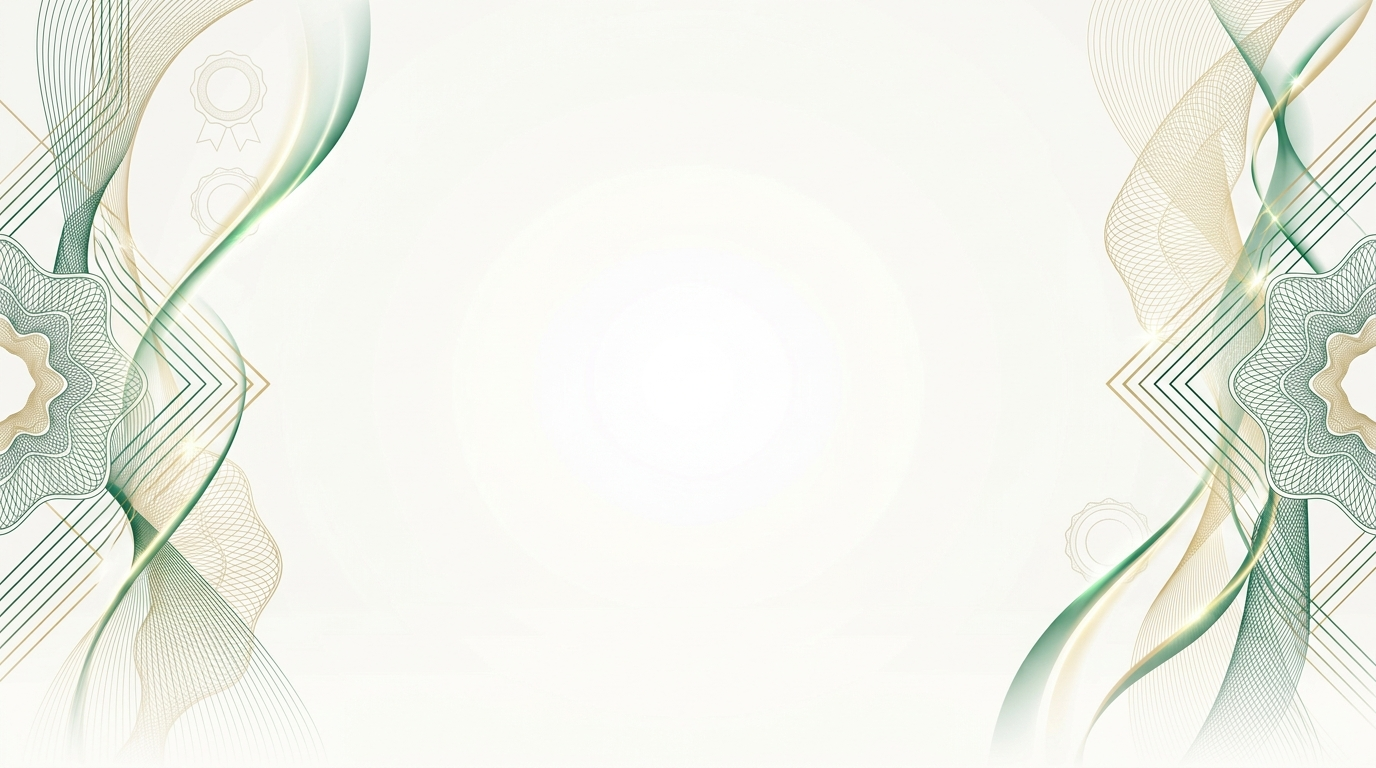
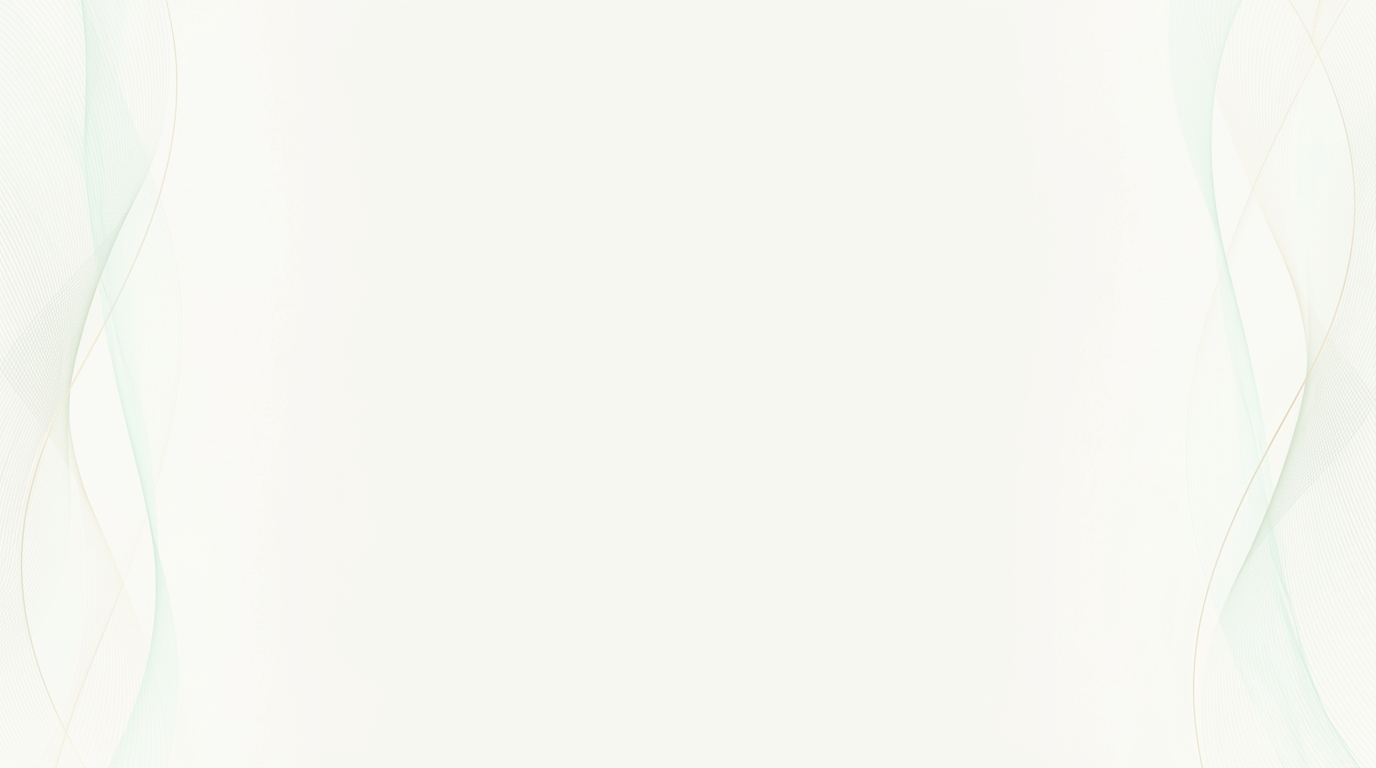
feat: add HomePage component and landing background assets

diff --git a/client/src/pages/HomePage.jsx b/client/src/pages/HomePage.jsx
@@ -596,70 +596,80 @@ if (result.isVerified) {
           </div>
         </div>
       </section>
-      </div>
 
-      {/* ── FINAL CTA BANNER ── */}
-      <section className="py-16 sm:py-24 px-4 sm:px-6 bg-gradient-to-br from-[#0E2C24] via-[#091E18] to-[#04120E] text-white text-center relative overflow-hidden">
-        <div className="absolute inset-0 opacity-15 bg-[radial-gradient(#C6A24E_1px,transparent_1px)] [background-size:16px_16px] pointer-events-none" />
-        <div className="container mx-auto max-w-3xl relative z-10 space-y-5">
-          <span className="landing-glow-badge text-[#E4C977] border-[#C6A24E]/40 bg-[#C6A24E]/15">
-            <Lock size={13} className="text-[var(--color-foil-gold)]" />
-            <span>{t('home.ctaBadge')}</span>
-          </span>
-          <h2 className="text-2xl sm:text-4xl font-extrabold text-white tracking-tight">
-            {t('home.ctaTitle')}
-          </h2>
-          <p className="text-sm sm:text-base text-[#F4EEDC]/85 max-w-xl mx-auto leading-relaxed">
-            {t('home.ctaSub')}
-          </p>
-          <div className="pt-3">
-            <button
-              type="button"
-              onClick={handleStartVerify}
-              className="btn-primary px-8 py-3.5 text-base font-bold shadow-2xl inline-flex items-center gap-2 transform hover:-translate-y-0.5 cursor-pointer bg-[#C6A24E] text-[#091A16] hover:bg-[#E4C977]"
-            >
-              <ShieldCheck size={20} />
-              <span>{t('home.ctaBtn')}</span>
-            </button>
-          </div>
-        </div>
-      </section>
+      {/* ── FINAL CTA BANNER (SAME BACKGROUND IMAGE) ── */}
+      <section className="py-16 sm:py-24 px-4 sm:px-6 relative overflow-hidden">
+          <div className="container mx-auto max-w-3xl relative z-10 text-center">
+            <div className="landing-glass-card p-8 sm:p-12 shadow-xl border border-[rgba(27,70,58,0.16)] relative overflow-hidden">
+              {/* Subtle ambient light glow accents */}
+              <div className="absolute -right-16 -top-16 w-48 h-48 bg-[#C6A24E]/10 rounded-full blur-3xl pointer-events-none" />
+              <div className="absolute -left-16 -bottom-16 w-48 h-48 bg-[#1B463A]/8 rounded-full blur-3xl pointer-events-none" />
 
-      {/* ── FOOTER ── */}
-      <footer className="bg-[#051410] text-[#F4EEDC]/75 py-10 sm:py-12 px-4 sm:px-6 border-t border-[rgba(27,70,58,0.25)]">
-        <div className="container mx-auto max-w-5xl flex flex-col sm:flex-row items-center justify-between gap-6">
-          <div className="flex items-center gap-3">
-            <img src="/deresegn-logo.svg" alt="Deresegn logo" width={32} height={32} className="rounded" />
-            <div>
-              <span className="font-bold text-white text-sm block">Deresegn.et (ታማኝ ቸክ)</span>
-              <span className="text-[11px] text-[#F4EEDC]/50 block">Ethiopia’s Digital Transaction Verification Seal</span>
+              <div className="relative z-10 space-y-5">
+                <span className="landing-glow-badge">
+                  <Lock size={13} className="text-[#1B463A]" />
+                  <span>{t('home.ctaBadge')}</span>
+                </span>
+
+                <h2 className="text-2xl sm:text-4xl font-extrabold text-[#091A16] tracking-tight leading-tight">
+                  {t('home.ctaTitle')}
+                </h2>
+
+                <p className="text-sm sm:text-base text-[#1F362D] max-w-xl mx-auto leading-relaxed font-medium">
+                  {t('home.ctaSub')}
+                </p>
+
+                <div className="pt-3">
+                  <button
+                    type="button"
+                    onClick={handleStartVerify}
+                    className="btn-primary px-8 py-3.5 text-base font-bold shadow-xl inline-flex items-center gap-2 transform hover:-translate-y-0.5 cursor-pointer bg-[#1B463A] text-white hover:bg-[#091A16]"
+                  >
+                    <ShieldCheck size={20} />
+                    <span>{t('home.ctaBtn')}</span>
+                  </button>
+                </div>
+              </div>
             </div>
           </div>
+        </section>
 
-          <div className="flex flex-wrap items-center justify-center gap-5 text-xs text-[#F4EEDC]/80">
-            <button
-              type="button"
-              onClick={() => window.scrollTo({ top: 0, behavior: 'smooth' })}
-              className="hover:text-white transition-colors cursor-pointer"
-            >
-              Back to Top
-            </button>
-            <Link to="/developer" className="hover:text-white transition-colors">
-              {t('home.getApi')}
-            </Link>
-            <Link to="/login" className="hover:text-white transition-colors">
-              {t('auth.signIn')}
-            </Link>
-            <Link to="/register" className="hover:text-white transition-colors">
-              {t('home.register')}
-            </Link>
-          </div>
+        {/* ── FOOTER (ON SAME BACKGROUND IMAGE) ── */}
+        <footer className="py-10 sm:py-12 px-4 sm:px-6 border-t border-[rgba(27,70,58,0.12)]">
+          <div className="container mx-auto max-w-5xl flex flex-col sm:flex-row items-center justify-between gap-6">
+            <div className="flex items-center gap-3">
+              <img src="/deresegn-logo.svg" alt="Deresegn logo" width={32} height={32} className="rounded" />
+              <div>
+                <span className="font-bold text-[#091A16] text-sm block">Deresegn.et (ታማኝ ቸክ)</span>
+                <span className="text-[11px] text-[#40564C] block font-medium">Ethiopia’s Digital Transaction Verification Seal</span>
+              </div>
+            </div>
 
-          <div className="text-[11px] text-[#F4EEDC]/50 text-center sm:text-right">
-            © {new Date().getFullYear()} Deresegn.et. All rights reserved.
+            <div className="flex flex-wrap items-center justify-center gap-5 text-xs text-[#1F362D] font-medium">
+              <button
+                type="button"
+                onClick={() => window.scrollTo({ top: 0, behavior: 'smooth' })}
+                className="hover:text-[#1B463A] transition-colors cursor-pointer"
+              >
+                Back to Top
+              </button>
+              <Link to="/developer" className="hover:text-[#1B463A] transition-colors">
+                {t('home.getApi')}
+              </Link>
+              <Link to="/login" className="hover:text-[#1B463A] transition-colors">
+                {t('auth.signIn')}
+              </Link>
+              <Link to="/register" className="hover:text-[#1B463A] transition-colors">
+                {t('home.register')}
+              </Link>
+            </div>
+
+            <div className="text-[11px] text-[#556D62] text-center sm:text-right font-medium">
+              © {new Date().getFullYear()} Deresegn.et. All rights reserved.
+            </div>
           </div>
-        </div>
-      </footer>
+        </footer>
+      </div>
     </div>
   )
 }
